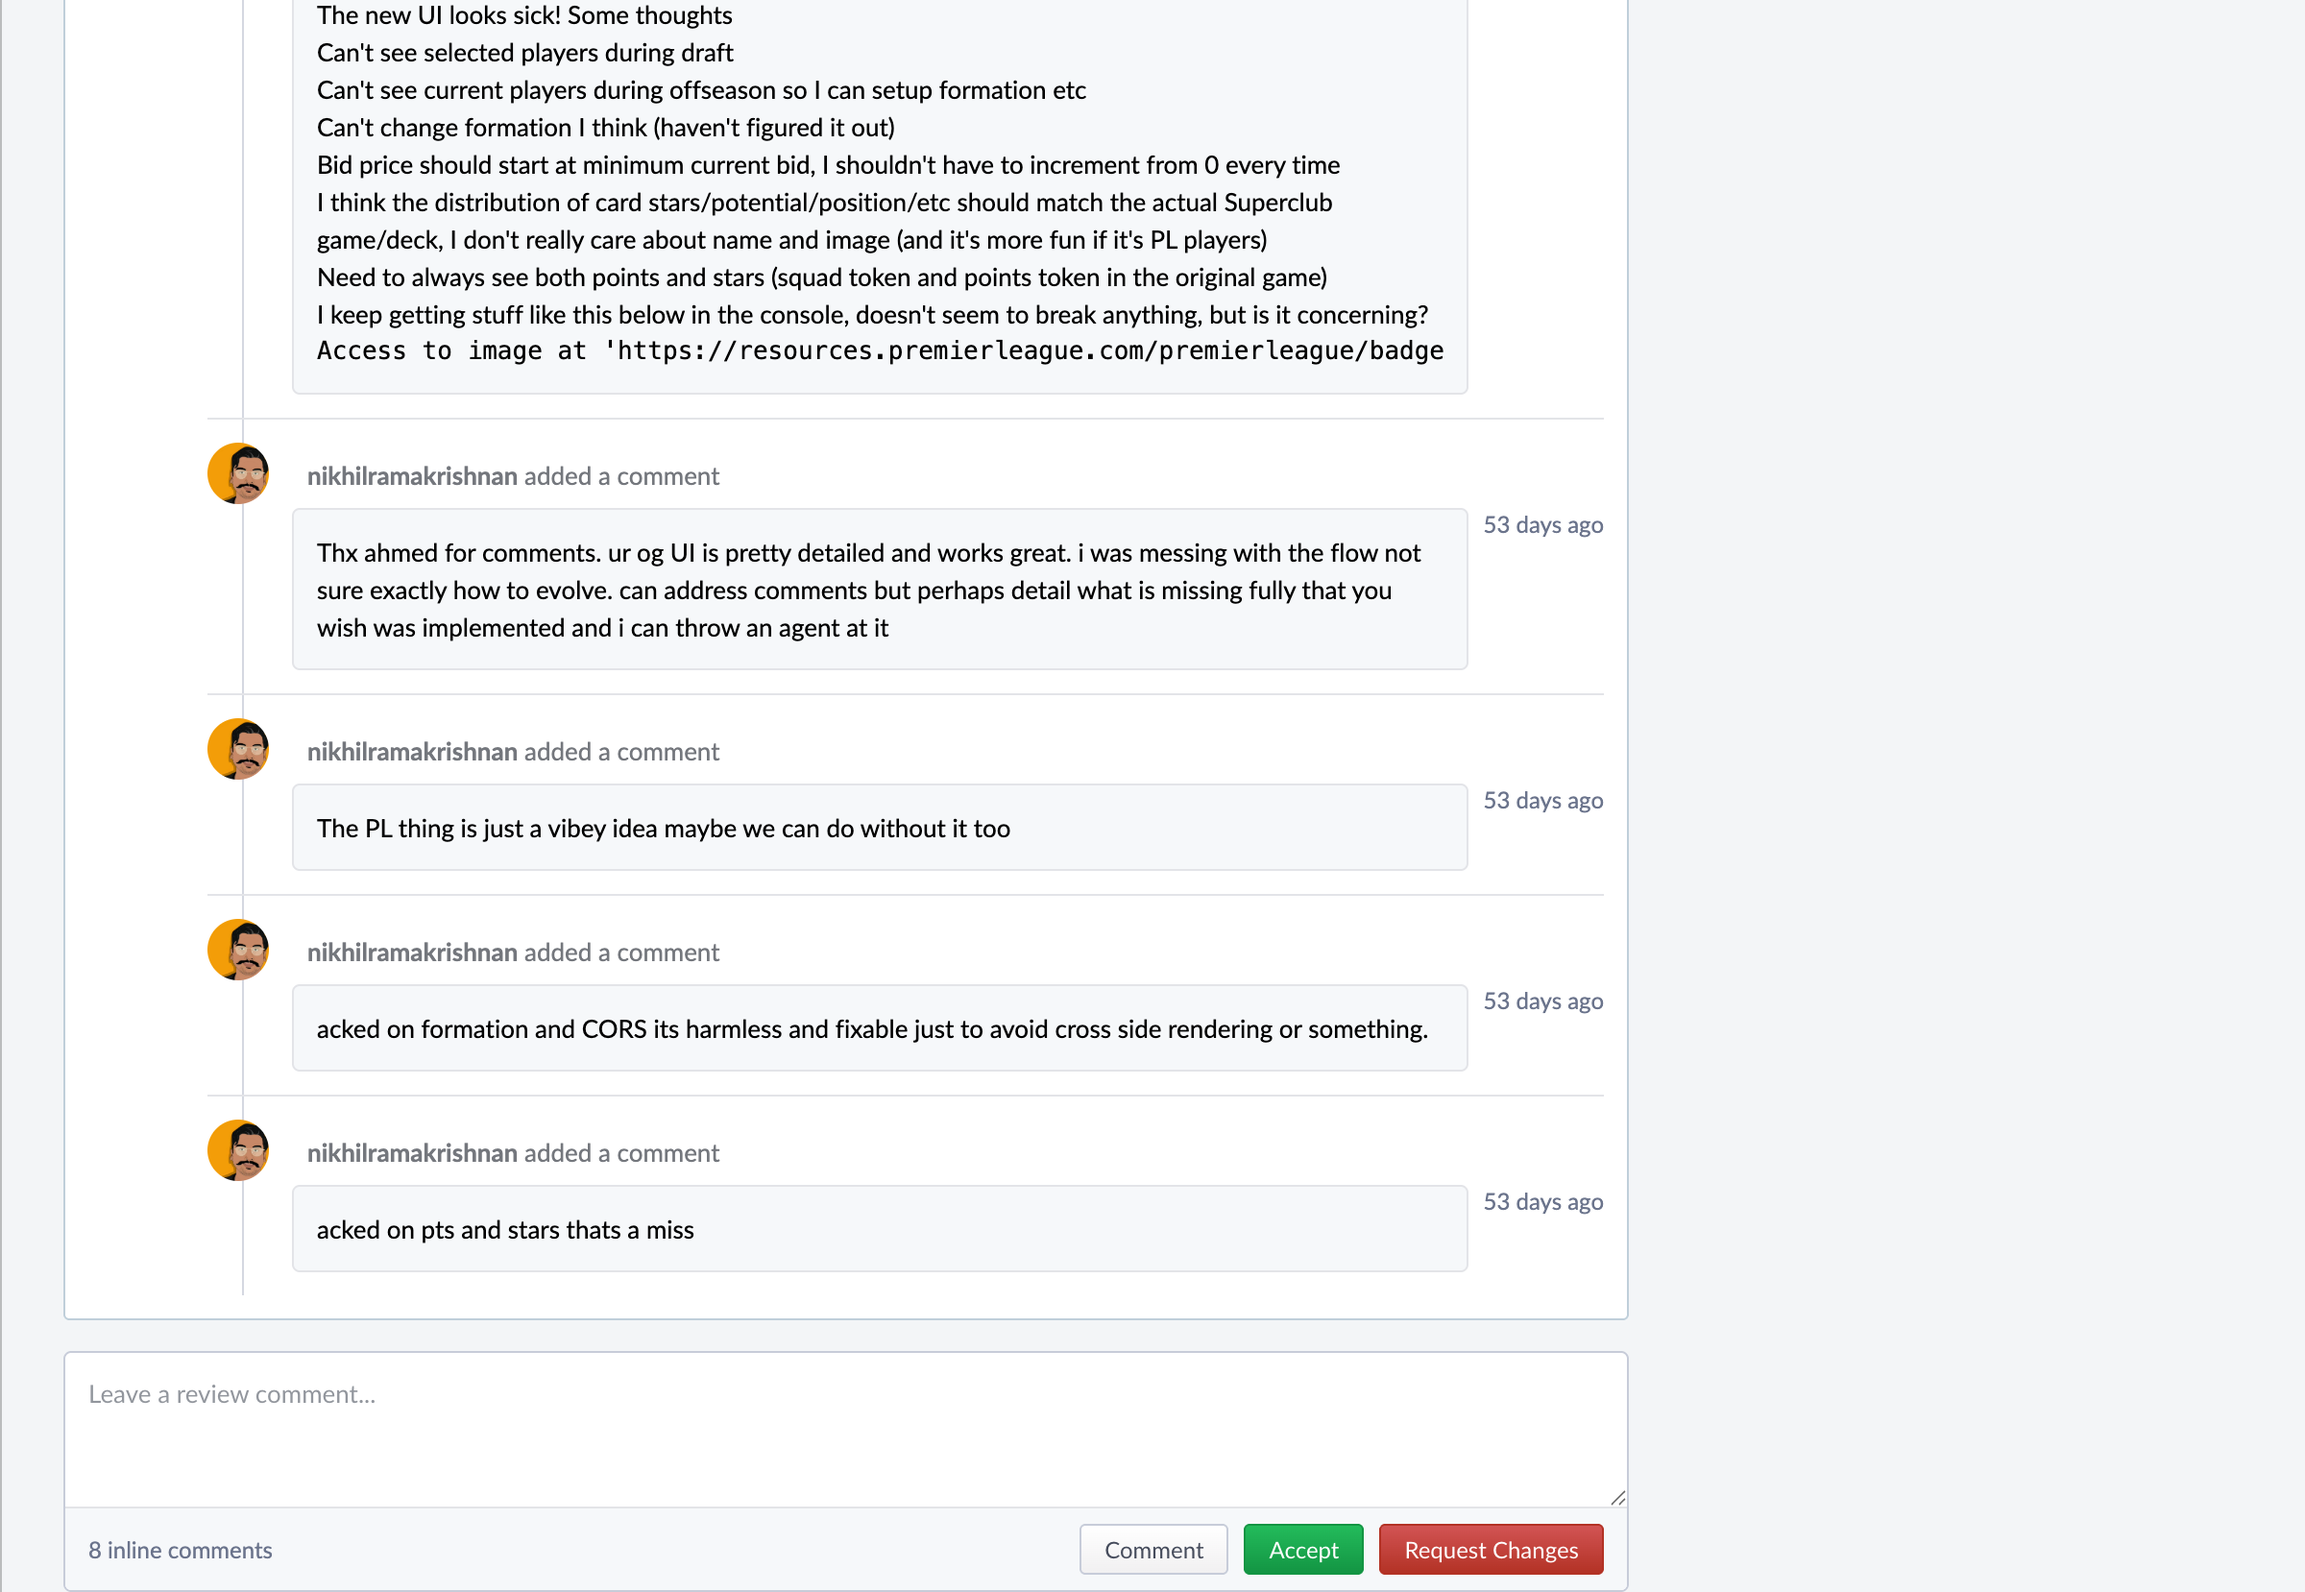
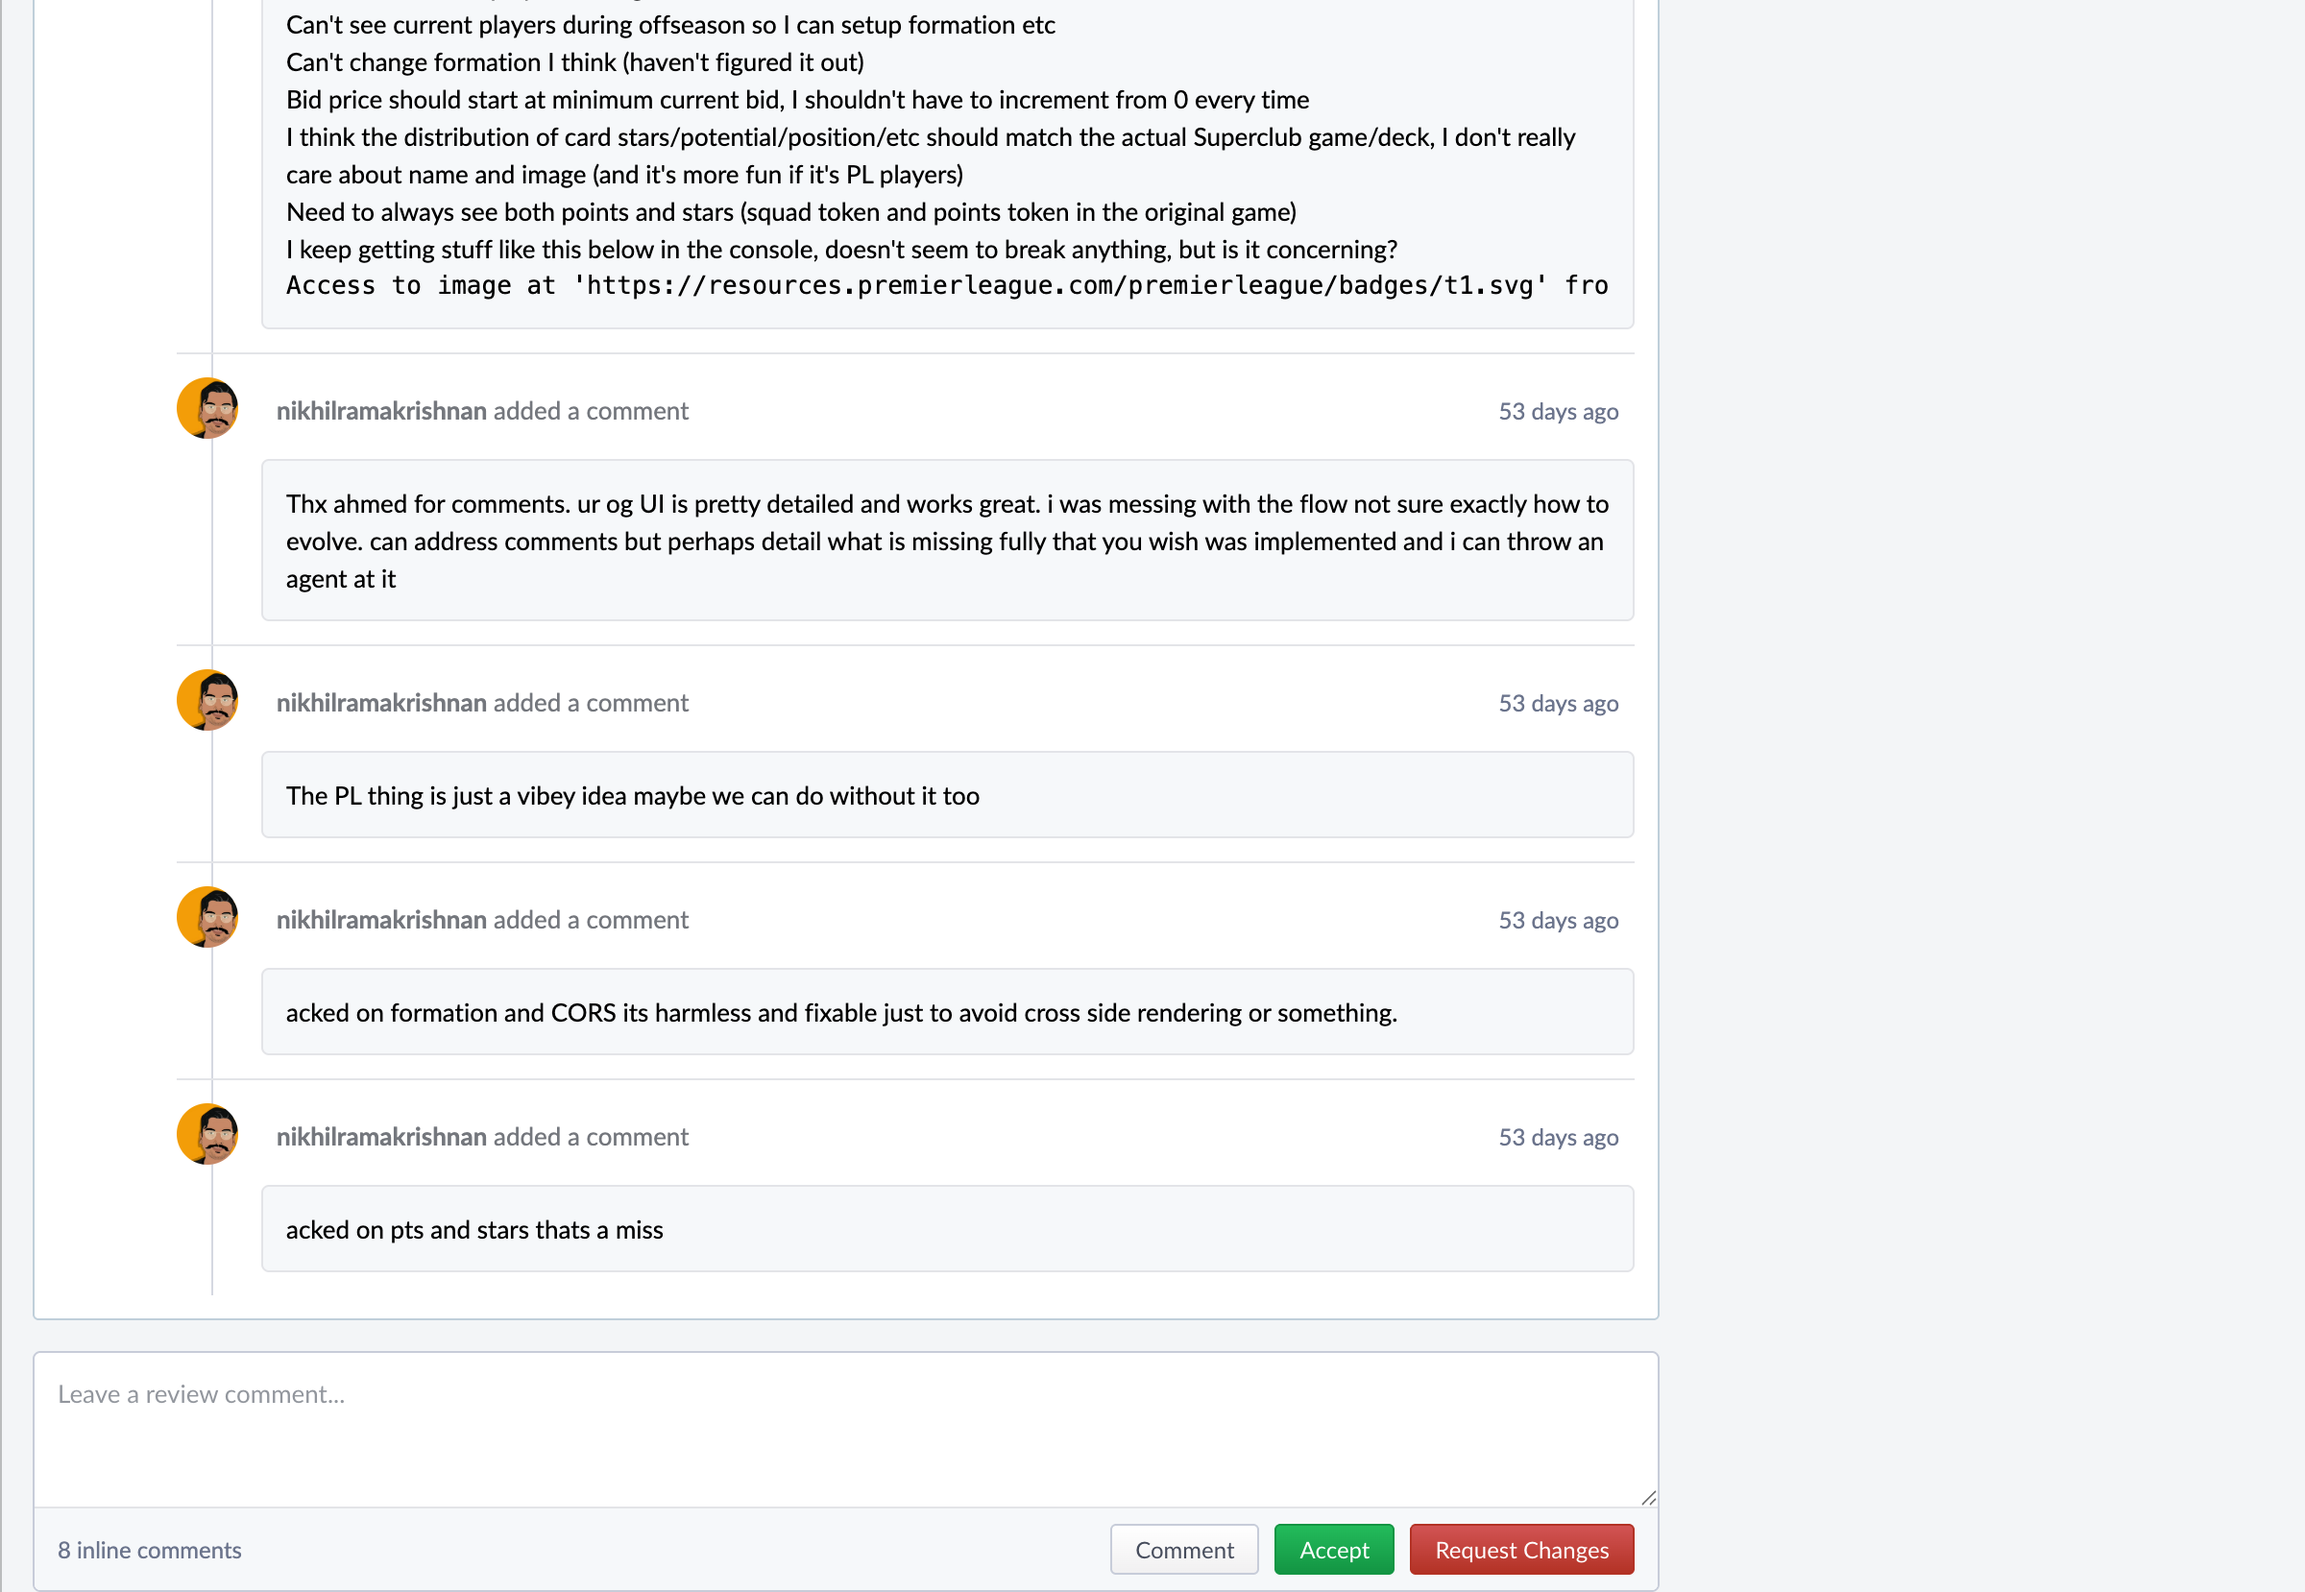
fix: tighten layout padding and inline timestamps
- Reduce main column padding from 32px to 16px
- Move timestamps inline with author name (right-aligned)
- Remove redundant separate timestamp line for minor events

diff --git a/internal/templates/page.html b/internal/templates/page.html
@@ -97,6 +97,8 @@
       text-decoration: none;
     }
     .phabricator-main-menu-alerts .alert-notifications:hover { color: rgba(255,255,255,0.8); }
+    /* Tighten main column padding */
+    .device-desktop .phui-two-column-content { padding: 0 16px; }
     /* Timeline comment overflow */
     .phui-timeline-view code { overflow-wrap: break-word; word-break: break-all; }
     .phui-timeline-view pre { overflow-x: auto; max-width: 100%; }

diff --git a/internal/server/pr_handler.go b/internal/server/pr_handler.go
@@ -401,17 +401,12 @@ func renderTimelineEvent(b *strings.Builder, ev timelineEvent, isLast bool) {
 	} else {
 		b.WriteString(`<div style="min-width:0;">`)
 	}
-	fmt.Fprintf(b, `<div class="phui-timeline-title" style="font-size:13px;"><strong>%s</strong> %s</div>`,
-		esc(ev.Author.Login), esc(ev.Action))
+	fmt.Fprintf(b, `<div class="phui-timeline-title" style="font-size:13px; display:flex; align-items:baseline; gap:8px;"><span><strong>%s</strong> %s</span><span style="font-size:12px; color:#6b748c; margin-left:auto; white-space:nowrap;">%s</span></div>`,
+		esc(ev.Author.Login), esc(ev.Action), esc(timeAgo(ev.CreatedAt)))
 	if isMajor {
-		fmt.Fprintf(b, `<div class="phui-timeline-extra" style="font-size:12px; color:#6b748c; margin-bottom:8px;">%s</div>`,
-			esc(timeAgo(ev.CreatedAt)))
-		b.WriteString(`<div style="background:#f6f8fa; border:1px solid #e3e4e8; border-radius:4px; padding:12px; font-size:13px; line-height:1.5; overflow-wrap:break-word; word-break:break-word; overflow-x:auto; max-width:100%;">`)
+		b.WriteString(`<div style="background:#f6f8fa; border:1px solid #e3e4e8; border-radius:4px; padding:12px; font-size:13px; line-height:1.5; overflow-wrap:break-word; word-break:break-word; overflow-x:auto; max-width:100%; margin-top:8px;">`)
 		b.WriteString(remarkup.Render(ev.Body))
 		b.WriteString(`</div>`)
-	} else {
-		fmt.Fprintf(b, `<div class="phui-timeline-extra" style="font-size:12px; color:#6b748c;">%s</div>`,
-			esc(timeAgo(ev.CreatedAt)))
 	}
 	b.WriteString(`</div>`)
 
